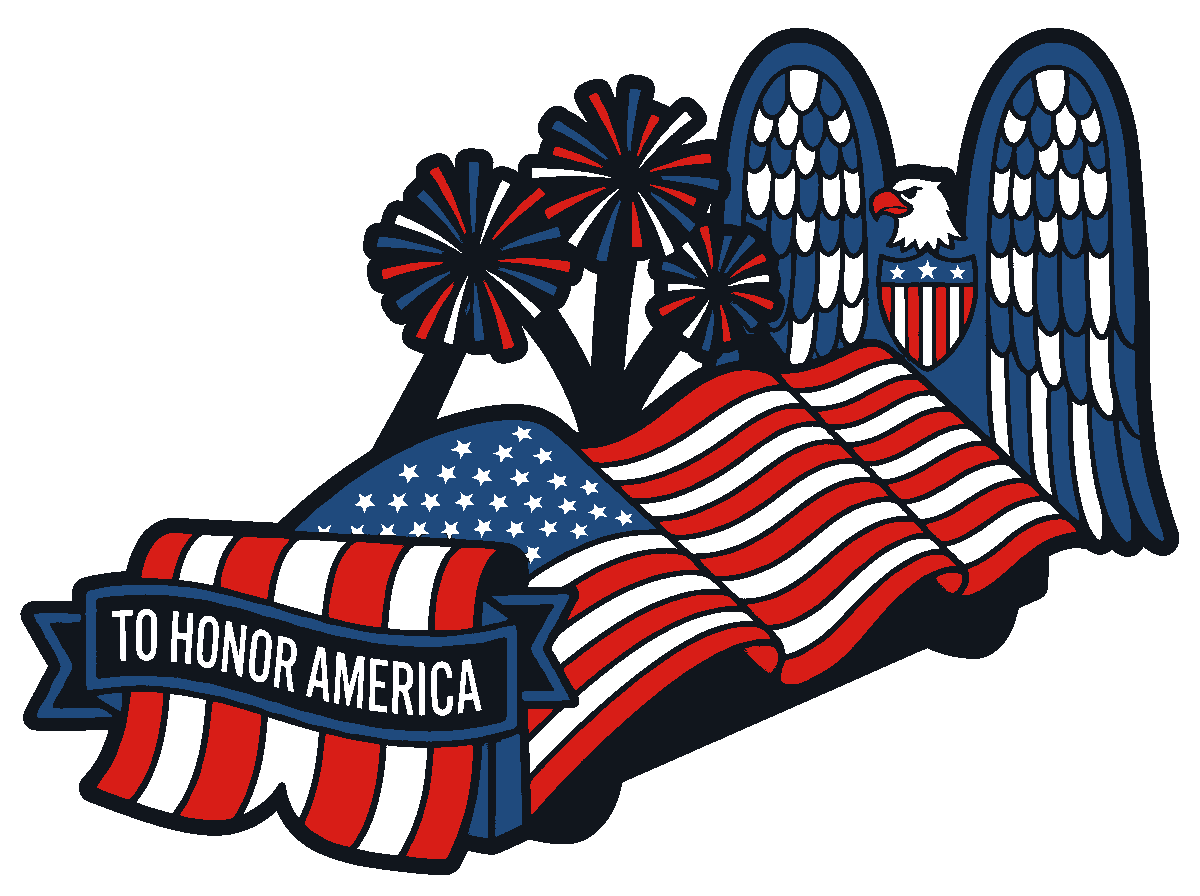
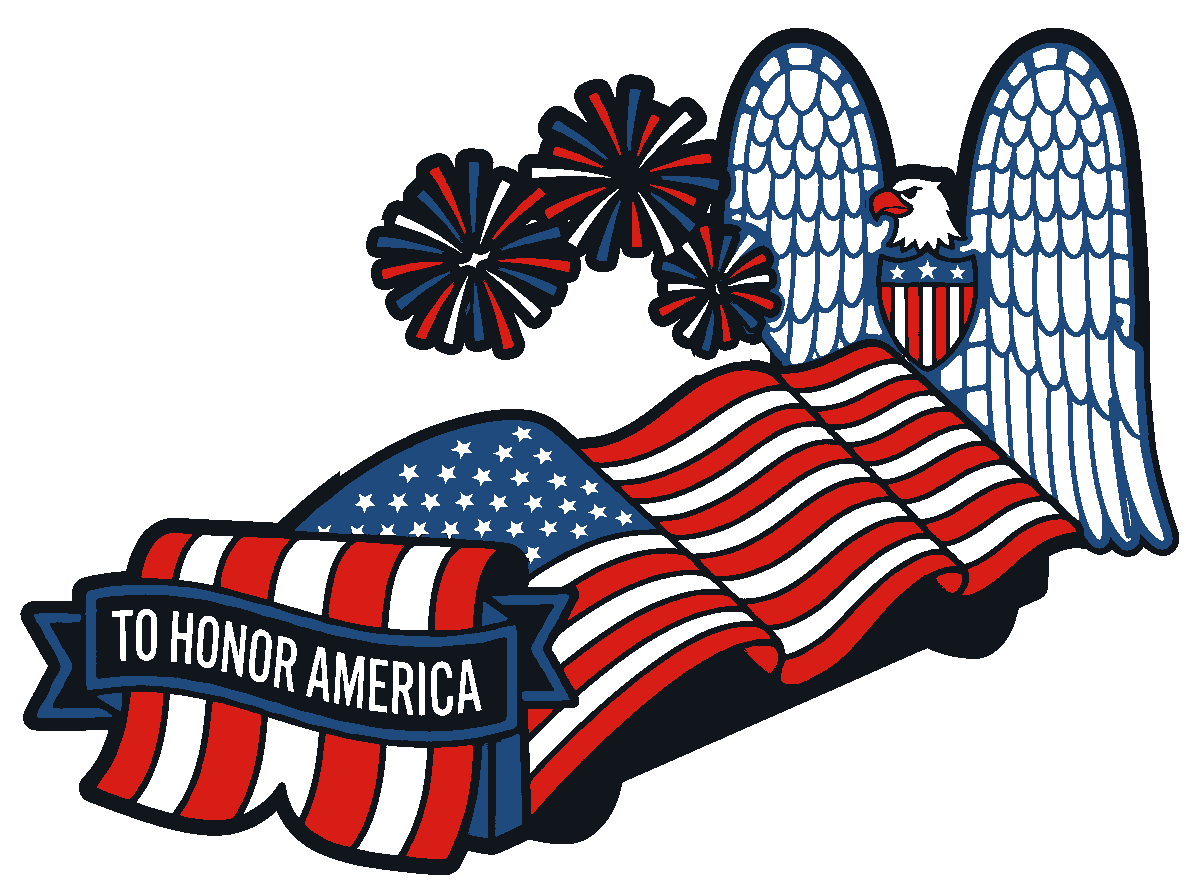
feat: make Eagle wings all-white feathers with blue outlines and remove firework stalks on To Honor America float

diff --git a/simulator/app.js b/simulator/app.js
@@ -276,7 +276,7 @@ floatArtworkImgs['petes_dragon'].src = 'assets/petes_dragon_transparent.png';
 floatArtworkImgs['builtin_dragon'].src = 'assets/petes_dragon_transparent.png';
 floatArtworkImgs['petes_dragon_transparent'].src = 'assets/petes_dragon_transparent.png';
 floatArtworkImgs['honor_america_eagle'].onload = () => { notifyFloatImgLoaded(); };
-floatArtworkImgs['honor_america_eagle'].src = 'assets/honor_america_eagle.png?v=20261103_honor_america_v4';
+floatArtworkImgs['honor_america_eagle'].src = 'assets/honor_america_eagle.png?v=20261103_honor_america_v5';
 
 function getGraphicImgForType(gType) {
     if (!gType) return defaultDragonImg;

diff --git a/PROJECT_PROGRESS.md b/PROJECT_PROGRESS.md
@@ -93,6 +93,20 @@ This project coordinates synchronized, addressable LED lighting across **7 runne
 
 ## Progress Log
 
+### 2026-11-03: Float 7 (To Honor America) All-White Wing Feathers with Blue Outlines & Firework Stalk Removal
+- **All-White Wing Feathers with Blue Outlines:**
+  - Updated the Bald Eagle's two tall cathedral-arch mantle wings so every feather cell across both wings is pure **White (`#ffffff`)** framed by crisp **Blue (`#1f4a7d`)** feather outlines, while preserving the Eagle's White head, Red beak, and Red/White/Blue chest shield.
+- **Firework Support Stalk Removal:**
+  - Removed all black support stalks holding the three firework bursts above the flag (`20,057` stalk pixels cleared to `alpha = 0`), leaving clean, uniform black outlines around the firework bursts and along the top edge of the flag.
+- **Strict 4-Color Multi-Material Slicing Verification:**
+  - Verified 100% discrete 4-color quantization across all 550,089 foreground pixels (`alpha = 255`) with a 100% transparent background (`alpha = 0`):
+    1. **Black (`#11161d` / `[17, 22, 29, 255]`):** Outer contour, banner interior, wheeled chassis, and firework outlines (215,810 px / 39.23%).
+    2. **White (`#ffffff` / `[255, 255, 255, 255]`):** `"TO HONOR AMERICA"` text, stars, flag stripes, eagle head, and all wing feathers (146,832 px / 26.69%).
+    3. **Blue (`#1f4a7d` / `[31, 74, 125, 255]`):** Swallowtail ribbon border, starfield canton, wing feather outlines, and shield top (96,557 px / 17.55%).
+    4. **Red (`#d81d17` / `[216, 29, 23, 255]`):** Draped & cascading flag stripes, firework rays, shield stripes, and eagle beak (90,890 px / 16.52%).
+- **Asset Deployment & Simulator Synchronization:**
+  - Updated `assets/honor_america_eagle.png`, `assets/to_honor_america.png`, `simulator/assets/honor_america_eagle.png`, and `simulator/assets/to_honor_america.png`, and bumped cache-buster in `simulator/app.js` to `?v=20261103_honor_america_v5`.
+
 ### 2026-11-03: Float 7 (To Honor America) Archival Photo Refinement - Swallowtail Front Banner, Vertically Draped Stripes & Cathedral-Arch Mantle-Winged Bald Eagle
 - **Authentic Front Swallowtail Banner & Draped Flag Stripes:**
   - Updated the front `"TO HONOR AMERICA"` banner to match the archival *Main Street Electrical Parade* photograph: a horizontal wavy swallowtail ribbon with V-notched ends, solid **Black (`#11161d`)** interior fill, bold **Blue (`#1f4a7d`)** ribbon border, and single-line **White (`#ffffff`)** `"TO HONOR AMERICA"` lettering.
